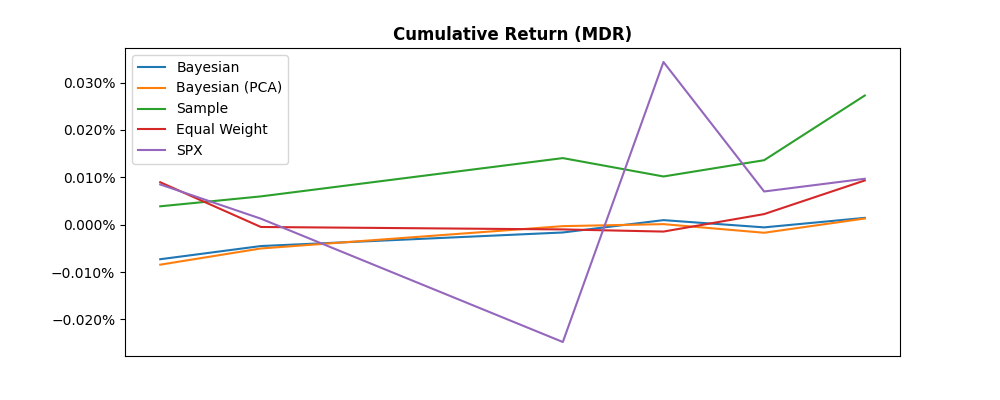
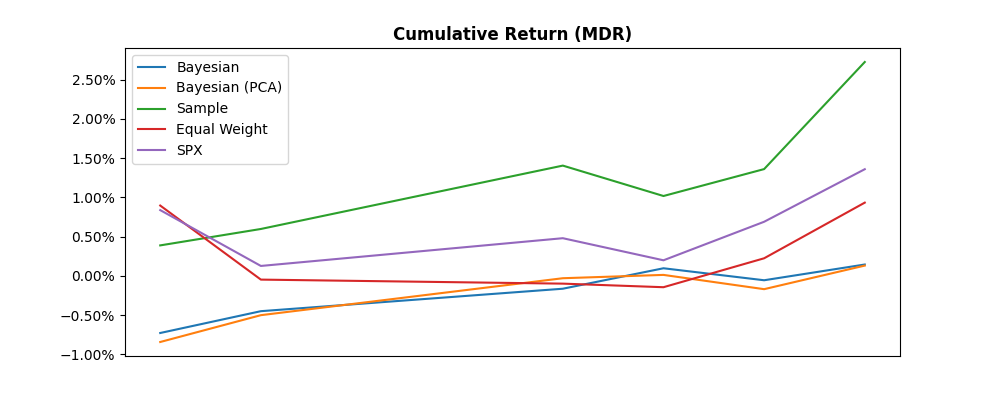
Update SPX return calculation

diff --git a/src/main.py b/src/main.py
@@ -121,6 +121,7 @@ def return_compare(
     start, end = process_date(start_date, end_date, stock_return, sample_size)
     return_series, return_series_pca, return_series_sample = [], [], []
     return_series_ew, return_series_mv = [], []
+    spx_return_series = []
     with Progress(
         TextColumn("[progress.description]{task.description}"),
         BarColumn(complete_style="red bold", finished_style="green bold"),
@@ -180,6 +181,9 @@ def return_compare(
                 beta_mv = np.array(stock_data.iloc[time_period[1] - 1, ::stock_slice] / sum(stock_data.iloc[time_period[1] - 1, ::stock_slice]))
                 return_series_mv.append(stock_return.iloc[time_period[1], ::stock_slice] @ beta_mv)
 
+            # S&P 500 Index single day return
+            spx_return_series.append(spx_return.iloc[time_period[1]])
+
             print(str(stock_return.index[time_period[1]]), "finished.")
             progress.update(task, advance=1)
 
@@ -192,7 +196,7 @@ def return_compare(
             return_series_ew[i] = (1 + return_series_ew[i - 1]) * (1 + return_series_ew[i]) - 1
         if mv_weight:
             return_series_mv[i] = (1 + return_series_mv[i - 1]) * (1 + return_series_mv[i]) - 1
-        spx_return.iloc[i] = (1 + spx_return.iloc[i - 1]) * (1 + spx_return.iloc[i]) - 1
+        spx_return_series[i] = (1 + spx_return_series[i - 1]) * (1 + spx_return_series[i]) - 1
 
     x = pd.to_datetime(factor_return.index[sample_size + start : sample_size + end])
     plt.figure(figsize=(10, 4))
@@ -203,13 +207,13 @@ def return_compare(
         plt.plot(x, return_series_ew, label="Equal Weight")
     if mv_weight:
         plt.plot(x, return_series_mv, label="Market Value Weight")
-    plt.plot(x, spx_return.iloc[start:end], label="SPX")
+    plt.plot(x, spx_return_series, label="SPX")
 
     plt.title(f"Cumulative Return ({smart_scheme})", fontdict={"fontweight": "bold"})
     ax = plt.gca()
     ax.xaxis.set_major_locator(mdates.YearLocator())
     ax.xaxis.set_major_formatter(mdates.DateFormatter("%Y"))
-    ax.yaxis.set_major_formatter(mtick.PercentFormatter(100))
+    ax.yaxis.set_major_formatter(mtick.PercentFormatter(1))
     plt.legend()
     plt.savefig(os.path.join("img", plot_name))
     plt.show()
@@ -317,17 +321,17 @@ if __name__ == "__main__":
     )
     print("Data loading and cleaning finished.")
 
-    tracking_diff(stock_return, factor_return, plot_name="tracking_diff_selected.png")
-    # return_compare(
-    #     stock_return=stock_return,
-    #     stock_data=stock_data,
-    #     factor_return=factor_return,
-    #     rf_data=rf_data,
-    #     spx_return=spx_return,
-    #     smart_scheme="MDR",
-    #     plot_name="return_compare_selected_MDR.png",
-    #     equal_weight=True,
-    #     mv_weight=False,
-    #     start_date="2020-01-01",
-    # )
+    # tracking_diff(stock_return, factor_return, plot_name="tracking_diff_selected.png")
+    return_compare(
+        stock_return=stock_return,
+        stock_data=stock_data,
+        factor_return=factor_return,
+        rf_data=rf_data,
+        spx_return=spx_return,
+        smart_scheme="MDR",
+        plot_name="return_compare_selected_MDR.png",
+        equal_weight=True,
+        mv_weight=False,
+        start_date="2020-01-01",
+    )
     # compare_efficient_fronter(stock_return, factor_return, "2016-10-10")
